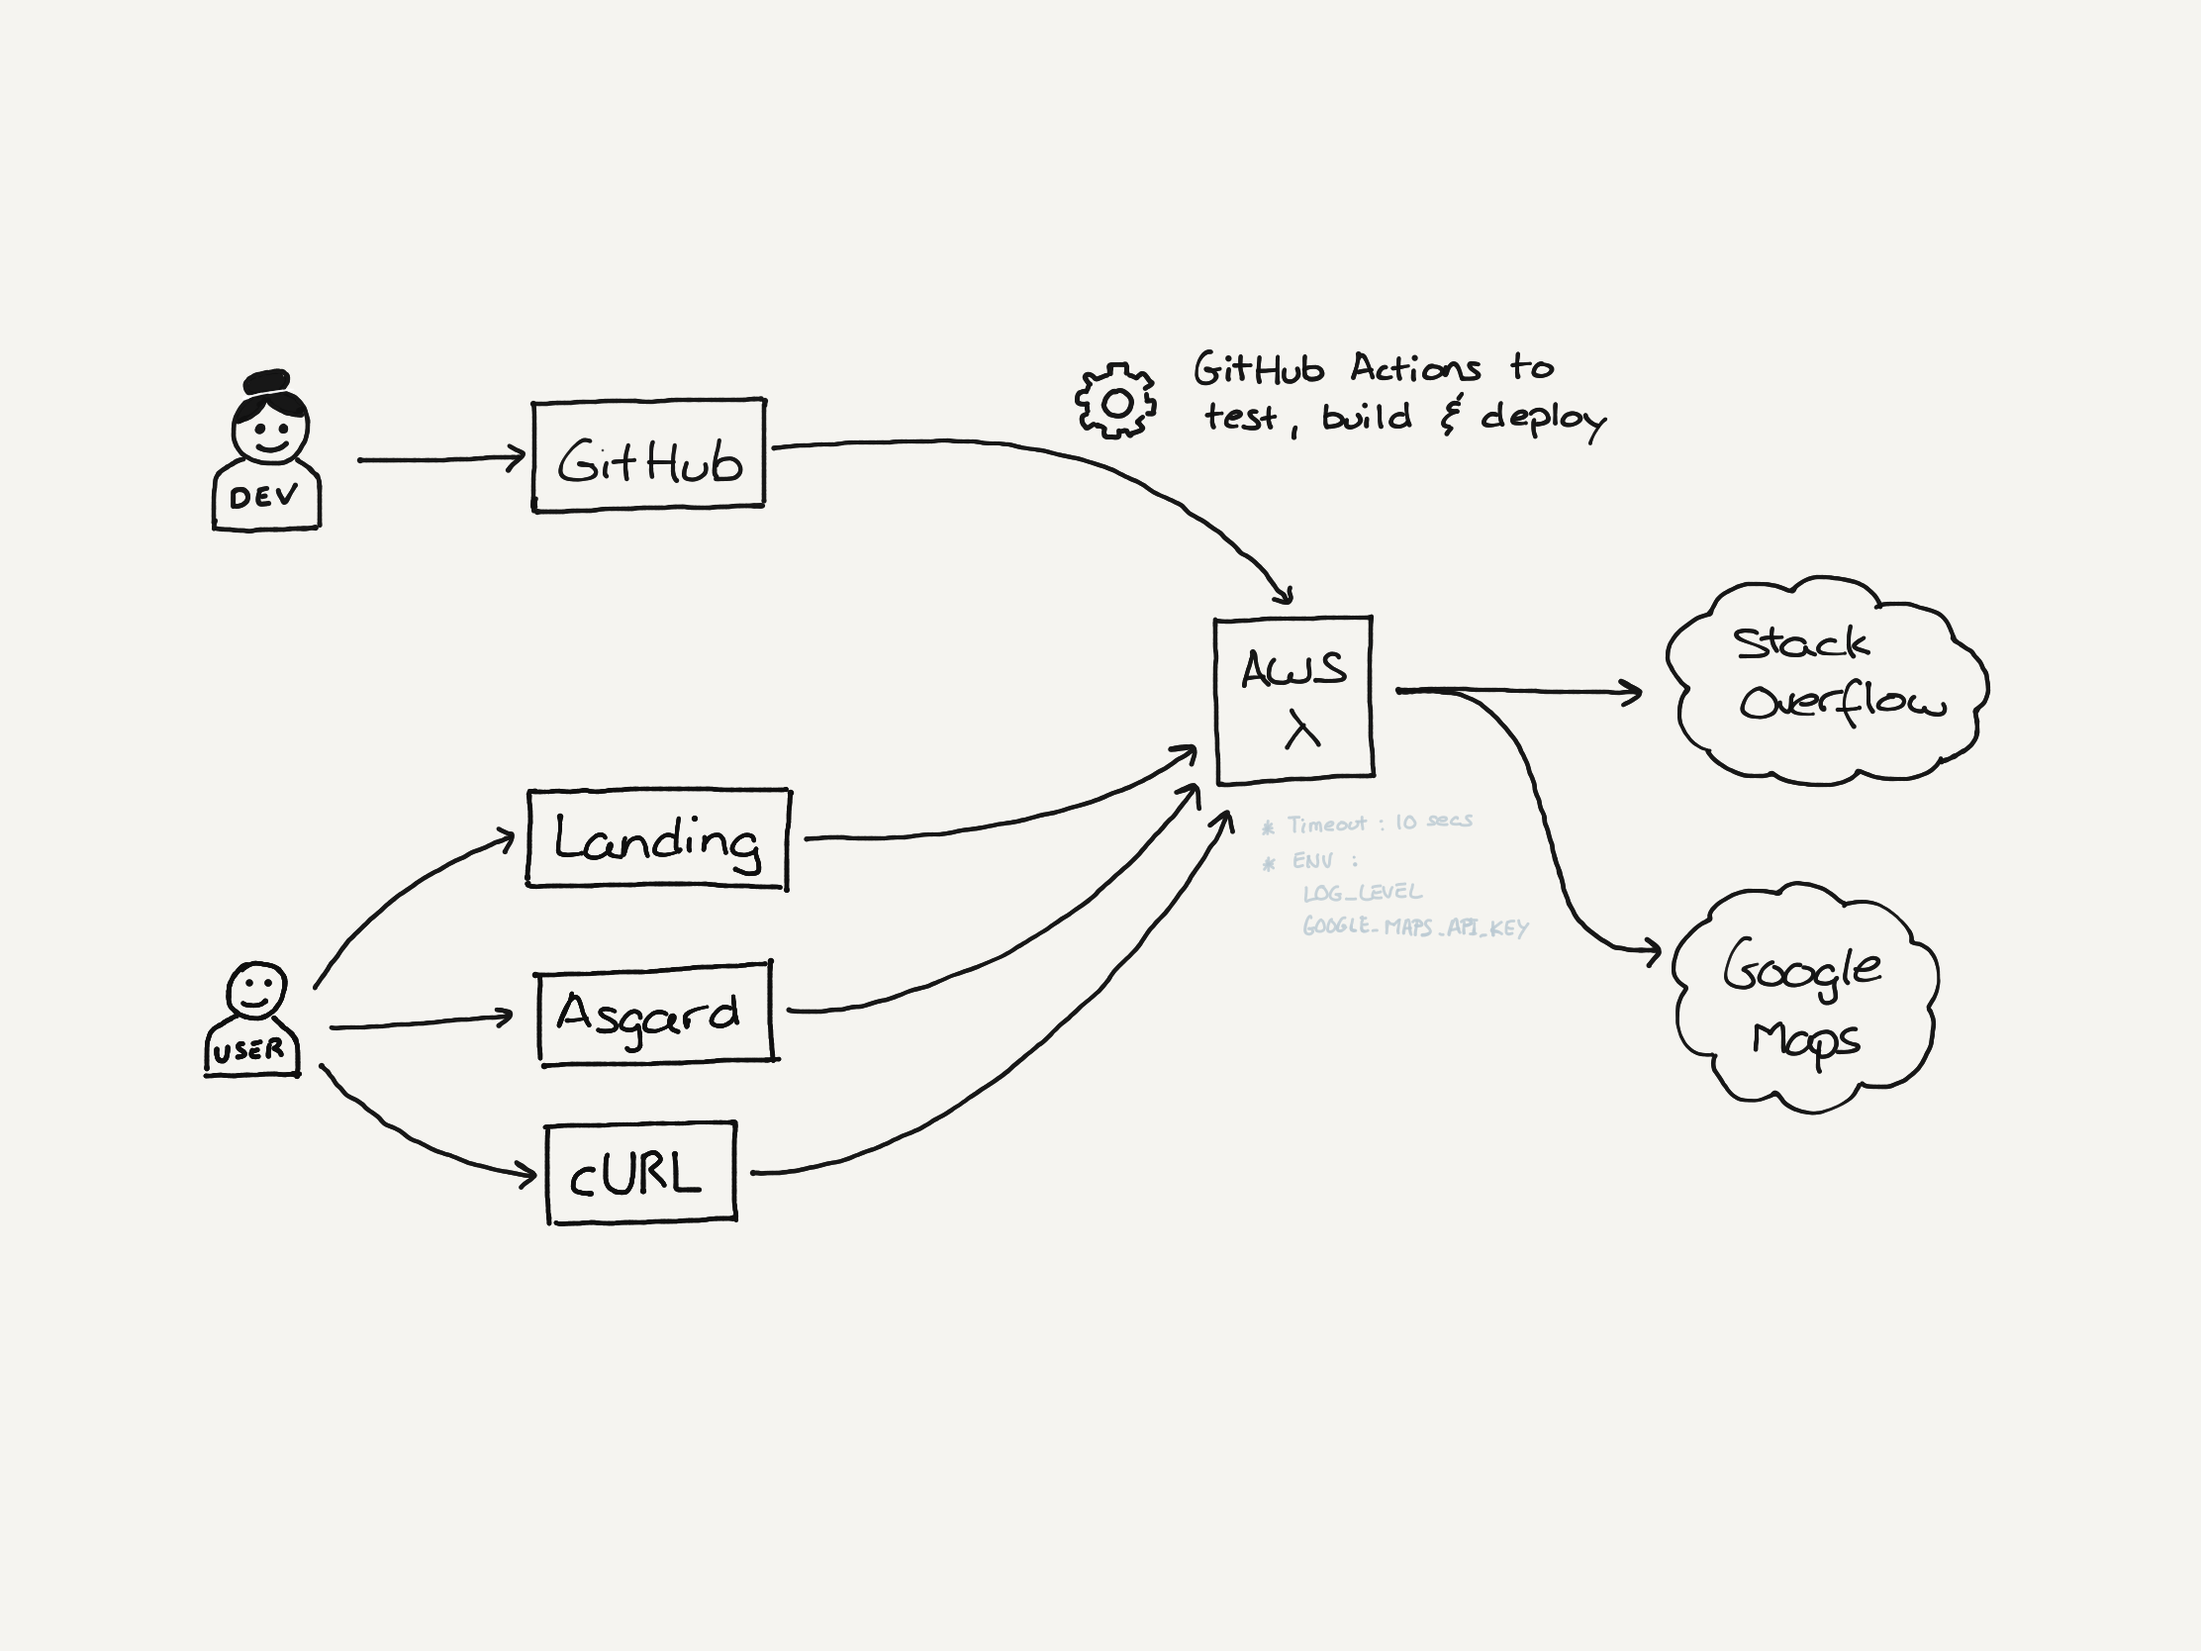
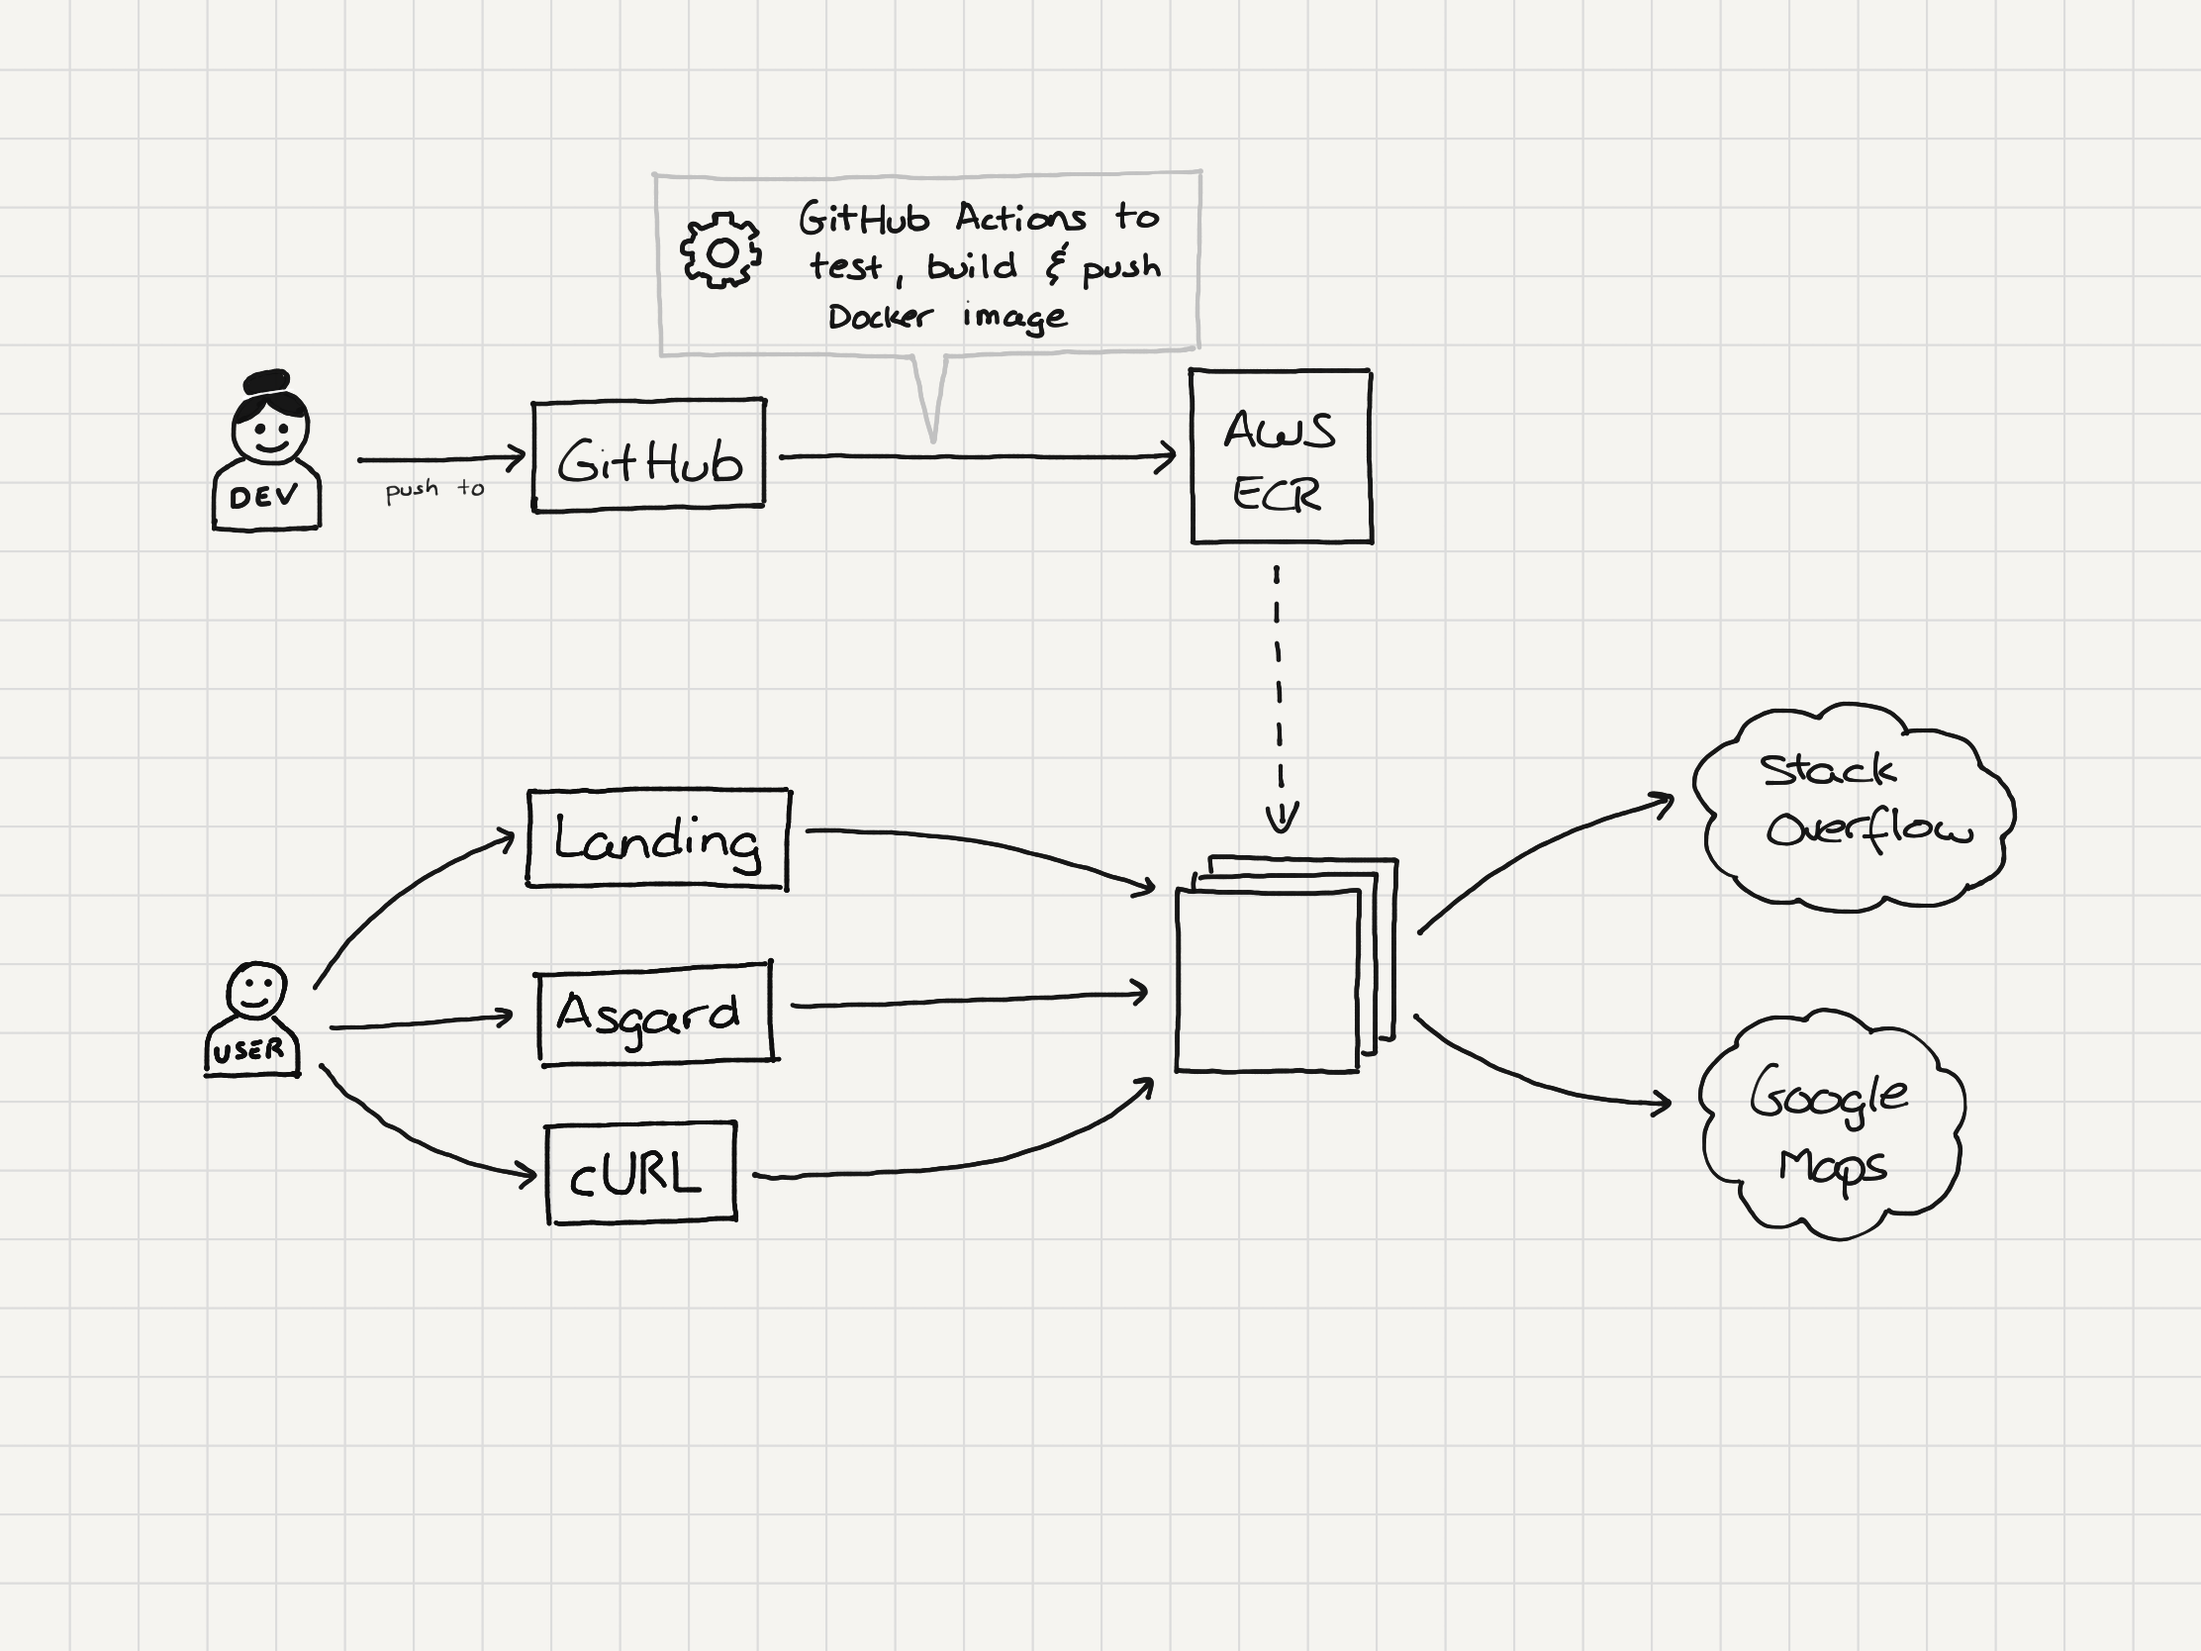
chore: updated readme file

Changed region(s): [[0.2792, 0.0935, 0.9308, 0.7482], [0.4964, 0.6547, 0.5274, 0.6859], [0.1862, 0.2806, 0.2172, 0.3118]]

diff --git a/README.md b/README.md
@@ -4,11 +4,34 @@
 
 ## General overview
 
-The project is pretty simple and it is prepared to be deployed as an AWS Lambda function.
-
 ![General overview diagram](doc/assets/general-overview.png)
 
-The only dependency is with Google Maps API, but if no API Key for Google is provided it just don't autocomplete the field `whereILive`. In that case the location information from the Dev Story is stored at `aboutMe.profile.whereILive.notes`.
+The only dependency is with Google Maps API. If no key for Google Maps API is provided it just doesn't autocomplete the field `whereILive`. In that case the location information from the Dev Story is stored at `aboutMe.profile.whereILive.notes`.
+
+## How to run
+
+### Plain Node.js
+
+```shell
+yarn install
+
+yarn build
+
+yarn start
+
+curl http://localhost:3000\?username\=<Dev Story username>
+```
+
+### Docker
+
+```shell
+docker build . -t username/dev-story-scraper
+
+docker run -p3000:3000 -d username/dev-story-scraper
+
+# If you have a Google Maps API
+docker run -p3000:3000 -e SO_GOOGLE_MAPS_API_KEY=<key value> -d username/dev-story-scraper
+```
 
 ## Code
 
@@ -20,21 +43,11 @@ The `index.ts` file contains the handler that launches the Lambda function, and 
 
 The `DevStoryDownloader` and `Geocoder` are created at the beginning so we can inject a mock for test purposes, avoiding overusing the Stack Overflow or Google's systems, this also prevents false red tests. We could use the dependency injection in better ways, but for a project that is going to be used for a few days and discarded it doesn't worth the price.
 
-### Tasks
-
-* `yarn install`: Installs all the required dependencies
-* `yarn test`: Launches the test suite
-* `yarn test:local <username|dev story URL>`: Executes the complete process in local using the actual bootstraping.
-* `yarn build`: Transpilation process from TS to JS
-
 ## Deployment
 
 ![Components architecture](doc/assets/deployment.png)
 
-We deploy the code at AWS Lambda using GitHub Actions. There are some details we need to take care of:
-* The default timeout of a lambda is 3 seconds, and it is too slow for larger dev stories. It is better to increase up to 15 seconds. *The observed time with real examples is in general under 9 seconds*.
-* By default, the log level is `info` we can change it with the environment variable `LOG_LEVEL`.
-* **We need to configure the `GOOGLE_MAPS_API_KEY` to use the  geocoder**.
+**We need to configure the `GOOGLE_MAPS_API_KEY` to use the  geocoder**.
 
 ## Design decisions
 
